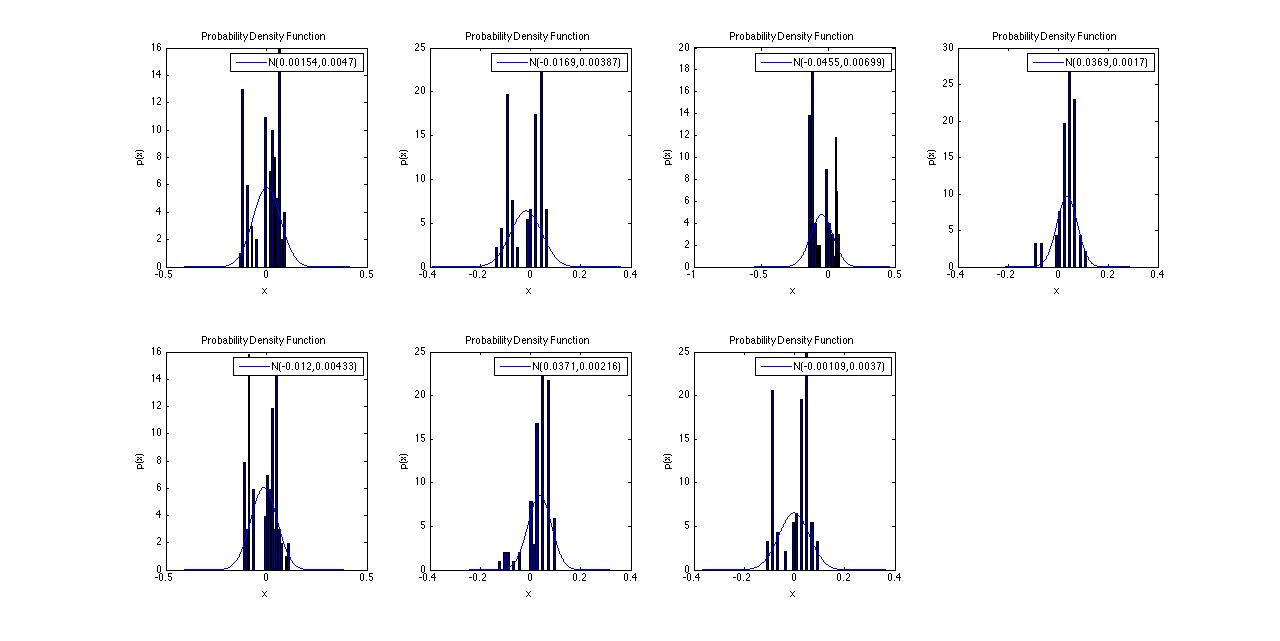
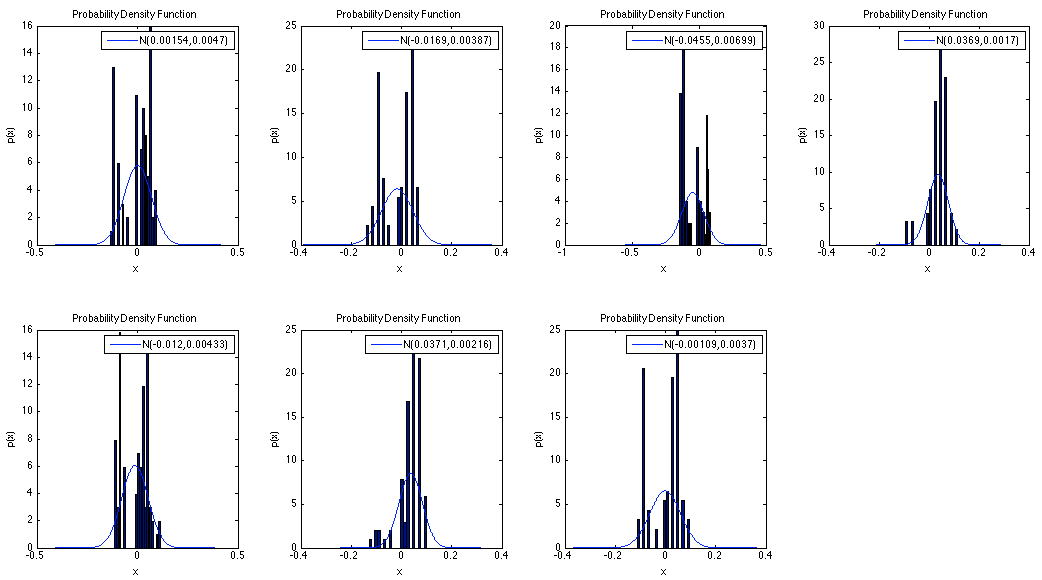
calib somplete

diff --git a/TSRT14_rapport.tex b/TSRT14_rapport.tex
@@ -69,15 +69,16 @@ This will give large peaks where the pulses were recorded.
 There is still a problem with this approach, the pu
 
 \begin{figure}[!h]
-  \caption{Microphone setup one.}
+
   \label{good_setup}
   \includegraphics[scale=0.9]{microphone_pos_good.png}
+  \caption{Microphone setup one.}
 \end{figure}
 
 \begin{figure}[!h]
-  \caption{Microphone setup two.}
   \label{bad_setup}
   \includegraphics[scale=0.9]{microphone_pos_bad.png}
+  \caption{Microphone setup two.}
 \end{figure}
 
 \newpage
@@ -121,11 +122,9 @@ end
 \end{verbatim}
 This code also plotts a pdfclass distribution into the same graph for comparison. It also determines the bias and standard deviation for each sensor. 
 \begin{figure}[H]
-\begin{center}
   \label{histogram}
-  \includegraphics[width = 350pt]{histogram.png}
+  \includegraphics[width = 400pt]{histogram.png}
   \caption{Histogram and pdfclass distribution for each sensor}
-  \end{center}
 \end{figure}
 The mean of the standard deviatione is $0.0613$ meters, which can be regarded as the accuracy of the estimation.
 
